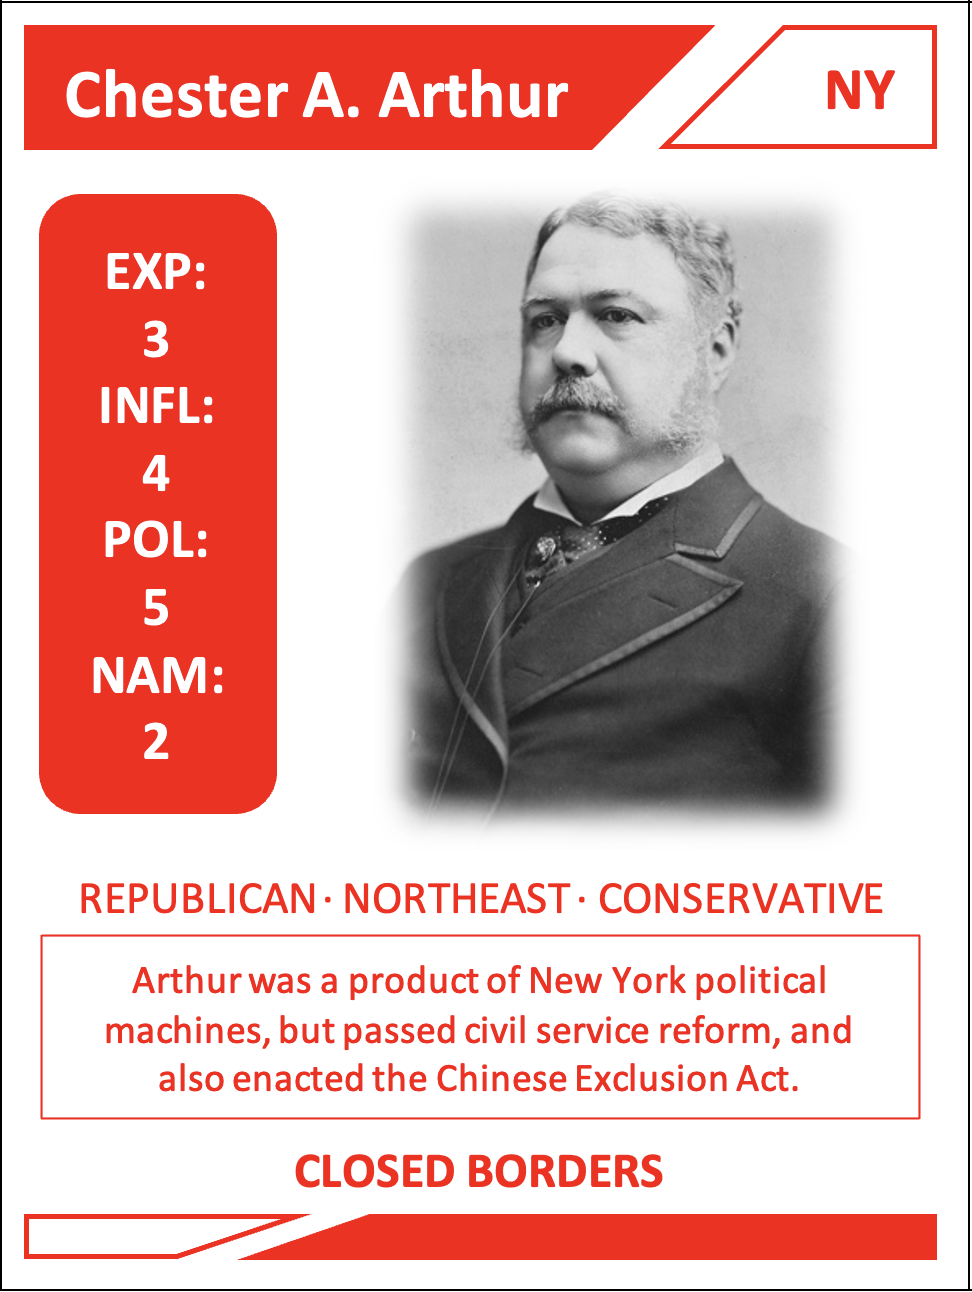
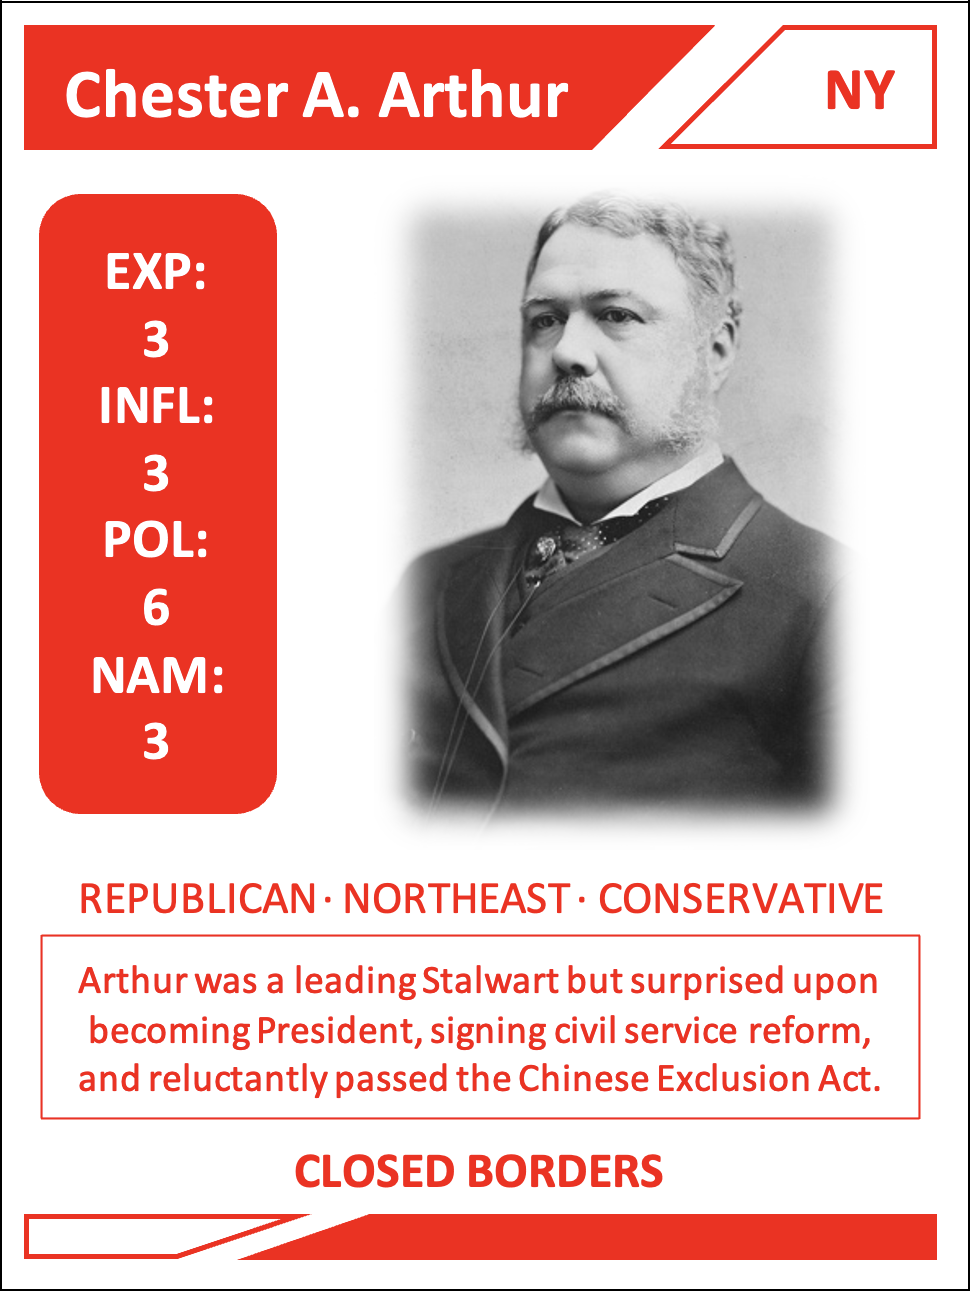
8/23 Kevin Mac

diff --git a/Election Game/src/main/java/org/cis120/electiongame/CardData.java b/Election Game/src/main/java/org/cis120/electiongame/CardData.java
@@ -388,7 +388,7 @@ public class CardData {
             new String[]{"President", "Reconstruction Era"}
     );
     static President chesterAArthur = new President(
-            "Chester A. Arthur", "Northeast", 3, 4, 5, 3, "Conservative", "Closed Borders",
+            "Chester A. Arthur", "Northeast", 3, 3, 6, 3, "Conservative", "Closed Borders",
             new String[]{"President", "Reconstruction Era"}
     );
     static President rutherfordBHayes = new President(
@@ -738,7 +738,7 @@ public class CardData {
             new String[]{"Civil War Era"}
     );
     static President charlesSumner = new President(
-            "Charles Sumner", "Northeast", 5, 3, 3, 7, "Conservative", "Civil Rights",
+            "Charles Sumner", "Northeast", 5, 3, 3, 7, "Progressive", "Civil Rights",
             new String[]{"Civil War Era"}
     );
     static President johnBrown = new President(
@@ -2977,6 +2977,102 @@ public class CardData {
             "William Kimmel", "Northeast", 2, 1, 2, 1, "Populist", "Limited Government",
             new String[]{"Reconstruction Era"}
     );
+    static President elihuwashburne = new President(
+            "Elihu Washburne", "Midwest", 4, 3, 1, 2, "Progressive", "Civil Rights",
+            new String[]{"Reconstruction Era"}
+    );
+    static President georgefedmunds = new President(
+            "George F. Edmunds", "Northeast", 6, 2, 3, 3, "Conservative", "Traditional Morality",
+            new String[]{"Reconstruction Era"}
+    );
+    static President marshalljewell = new President(
+            "Marshall Jewell", "Northeast", 3, 3, 2, 1, "Conservative", "Anti-Establishment",
+            new String[]{"Reconstruction Era"}
+    );
+    static President thomasfbayard = new President(
+            "Thomas F. Bayard", "Northeast", 7, 2, 4, 5, "Libertarian", "Gold Standard",
+            new String[]{"Reconstruction Era"}
+    );
+    static President samueljrandall = new President(
+            "Samuel J. Randall", "Northeast", 7, 1, 5, 4, "Populist", "Tariffs",
+            new String[]{"Reconstruction Era"}
+    );
+    static President henrybpayne = new President(
+            "Henry B. Payne", "Midwest", 3, 2, 4, 2, "Libertarian", "Tariffs",
+            new String[]{"Reconstruction Era"}
+    );
+    static President alonzobcornell = new President(
+            "Alonzo B. Cornell", "Northeast", 2, 1, 2, 3, "Progressive", "Internal Improvements",
+            new String[]{"Reconstruction Era"}
+    );
+    static President henrywblair = new President(
+            "Henry W. Blair", "Northeast", 5, 2, 4, 2, "Conservative", "Civil Rights",
+            new String[]{"Reconstruction Era"}
+    );
+    static President frederickwseward = new President(
+            "Frederick W. Seward", "Northeast", 1, 1, 2, 3, "Conservative", "Closed Borders",
+            new String[]{"Reconstruction Era"}
+    );
+    static President henrymmathews = new President(
+            "Henry M. Mathews", "Midwest", 2, 5, 1, 2, "Libertarian", "Active Executive",
+            new String[]{"Reconstruction Era"}
+    );
+    static President williamrallsmorrison = new President(
+            "William Ralls Morrison", "Midwest", 5, 1, 3, 1, "Populist", "Free Trade",
+            new String[]{"Reconstruction Era"}
+    );
+    static President stephenjfield = new President(
+            "Stephen J. Field", "West", 5, 1, 5, 2, "Libertarian", "Open Borders",
+            new String[]{"Reconstruction Era"}
+    );
+    static President williamwindom = new President(
+            "William Windom", "Midwest", 4, 1, 3, 1, "Progressive", "Regulation",
+            new String[]{"Reconstruction Era"}
+    );
+    static President roberttoddlincoln = new President(
+            "Robert Todd Lincoln", "Midwest", 2, 3, 2, 6, "Conservative", "Tough Foreign Policy",
+            new String[]{"Reconstruction Era"}
+    );
+    static President thomaslemueljames = new President(
+            "Thomas Lemuel James", "Northeast", 2, 1, 3, 1, "Conservative", "Anti-Establishment",
+            new String[]{"Reconstruction Era"}
+    );
+    static President alcibiadesdeblanc = new President(
+            "Alcibiades DeBlanc", "South", 1, 3, 1, 1, "Populist", "Racism",
+            new String[]{"Reconstruction Era"}
+    );
+    static President ishamgharris = new President(
+            "Isham G. Harris", "South", 7, 2, 3, 3, "Libertarian", "Inflation",
+            new String[]{"Reconstruction Era"}
+    );
+    static President jamesmsmith = new President(
+            "James M. Smith", "South", 3, 1, 3, 1, "Populist", "Tax Cuts",
+            new String[]{"Reconstruction Era"}
+    );
+    static President fredericktfrelinghuysen = new President(
+            "Frederick T. Frelinghuysen", "Northeast", 6, 1, 3, 3, "Progressive", "Isolationism",
+            new String[]{"Reconstruction Era"}
+    );
+    static President charlesjfolger = new President(
+            "Charles J. Folger", "Northeast", 2, 1, 3, 1, "Conservative", "Establishment",
+            new String[]{"Reconstruction Era"}
+    );
+    static President benjaminhbrewster = new President(
+            "Benjamin H. Brewster", "Northeast", 2, 2, 1, 1, "Conservative", "Establishment",
+            new String[]{"Reconstruction Era"}
+    );
+    static President johnmstone = new President(
+            "John M. Stone", "South", 5, 1, 4, 1, "Populist", "Racism",
+            new String[]{"Reconstruction Era"}
+    );
+    static President georgeshouston = new President(
+            "George S. Houston", "South", 4, 3, 1, 2, "Populist", "Active Executive",
+            new String[]{"Reconstruction Era"}
+    );
+    static President zebulonvance = new President(
+            "Zebulon Vance", "South", 6, 4, 2, 4, "Populist", "Internal Improvements",
+            new String[]{"Reconstruction Era"}
+    );
     
     
     
@@ -4080,6 +4176,32 @@ public class CardData {
         nonpresidents.add(hermanlhumphrey);
         nonpresidents.add(richardpbland);
         nonpresidents.add(wadehamptoniii);
+        nonpresidents.add(elihuwashburne);
+        nonpresidents.add(georgefedmunds);
+        nonpresidents.add(marshalljewell);
+        nonpresidents.add(thomasfbayard);
+        nonpresidents.add(samueljrandall);
+        nonpresidents.add(henrybpayne);
+        nonpresidents.add(alonzobcornell);
+        nonpresidents.add(henrywblair);
+        nonpresidents.add(frederickwseward);
+        nonpresidents.add(henrymmathews);
+        nonpresidents.add(williamrallsmorrison);
+        nonpresidents.add(stephenjfield);
+        nonpresidents.add(williamwindom);
+        nonpresidents.add(roberttoddlincoln);
+        nonpresidents.add(thomaslemueljames);
+        nonpresidents.add(alcibiadesdeblanc);
+        nonpresidents.add(ishamgharris);
+        nonpresidents.add(jamesmsmith);
+        nonpresidents.add(fredericktfrelinghuysen);
+        nonpresidents.add(charlesjfolger);
+        nonpresidents.add(benjaminhbrewster);
+        nonpresidents.add(johnmstone);
+        nonpresidents.add(georgeshouston);
+        nonpresidents.add(zebulonvance);
+        
+        
         
 
         
